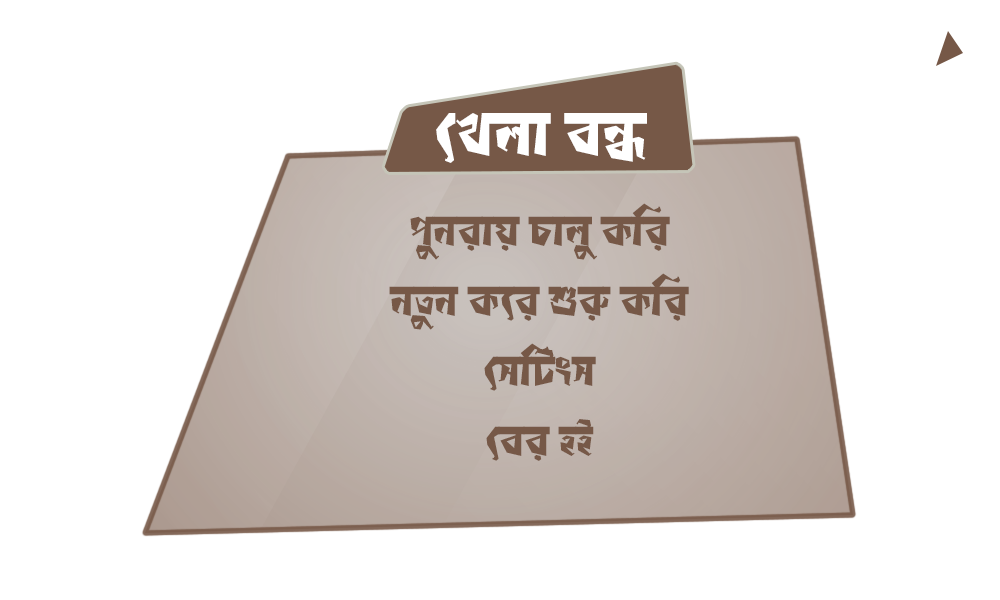
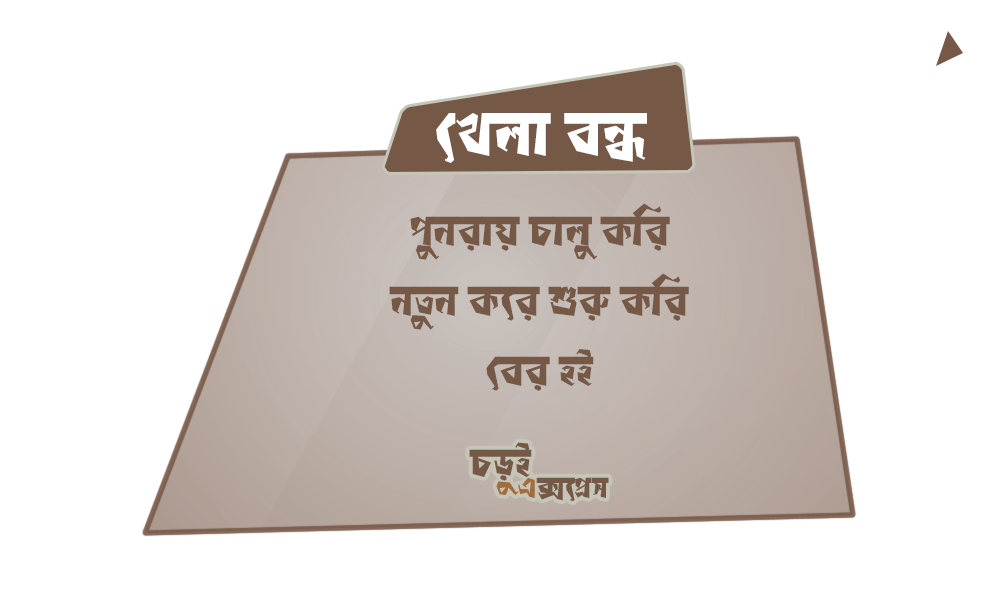
ok

Changed region(s): [[0.465, 0.69, 0.62, 0.84], [0.465, 0.57, 0.589, 0.66]]

diff --git a/iMain.cpp b/iMain.cpp
@@ -196,22 +196,21 @@ void iMouse(int button, int state, int mx, int my){
             }
         }
 
-        else if(GameState==2 && level==1){      //in easy level
+        else if(GameState==2 && level>0){      //in any level
                 if(mx > 924 && mx < 974 && my > 530 && my < 574){
                     pause++;
                 }
-        }
-
-        else if(GameState==2 && level==2){      //in medium level
-                if(mx > 924 && mx < 974 && my > 530 && my < 574){
-                    pause++;
-                }
-        }
-
-        else if(GameState==2 && level==3){      //in hard level
-                if(mx > 924 && mx < 974 && my > 530 && my < 574){
-                    pause++;
-                }
+                if(pause%2!=0){
+                            if(mx > 385 && mx < 694 && my > 339 && my < 395){       //continue
+                                pause++;
+                            }
+                            else if(mx > 385 && mx < 694 && my > 277 && my < 327){      //restart
+                                pause++;
+                            }
+                            else if(mx > 385 && mx < 694 && my > 210 && my < 252){      //exit
+                                GameState = 1;
+                            }
+                        }
         }
     }
     if (button == GLUT_RIGHT_BUTTON && state == GLUT_DOWN)
